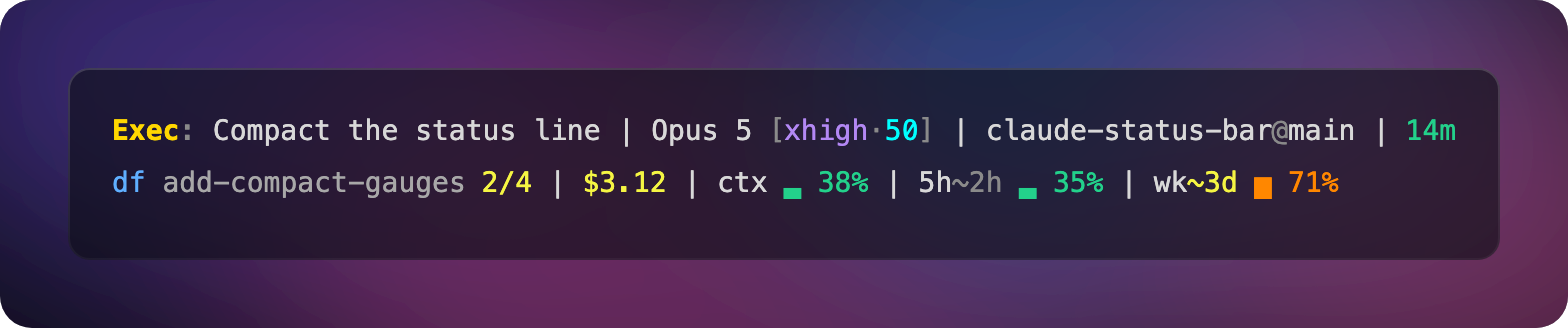
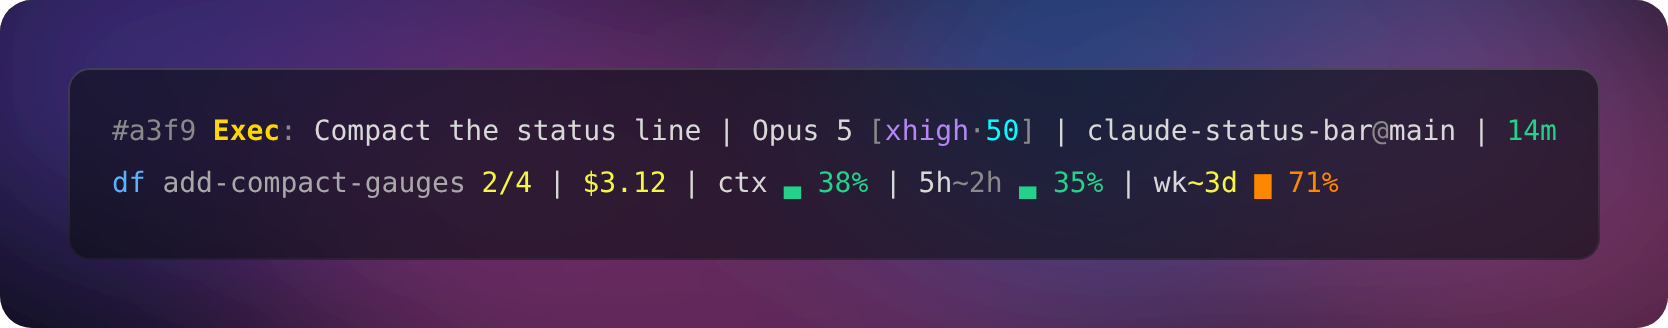
feat(statusline): tag each session with its id prefix (#a3f9)
Line 1 now opens with the session id's first four hex digits in dim grey,
glued before the phase (or the model, before any phase is written). The tag
is the id's own prefix, so it needs no store: transcripts are already named
<session_id>.jsonl. Non-UUID ids show nothing.

bin/ccs-find.js resolves a tag back to the full id. Four hex digits collide
within weeks, so the most recently active transcript wins and the others are
counted ("+N older"); a longer prefix narrows it. Input is restricted to hex
and dashes before it touches the disk.

Bumps to 1.13.0 and regenerates the screenshot with a UUID-shaped session.

Claude-Session: https://claude.ai/code/session_01MJjNNfoWMWKU13gSNfxZYc

Changed region(s): [[0.0625, 0.5183, 0.875, 0.6098], [0.0312, 0.2134, 0.9688, 0.4573]]

diff --git a/bin/ccs-find.test.js b/bin/ccs-find.test.js
@@ -1,0 +1,75 @@
+#!/usr/bin/env node
+'use strict';
+process.removeAllListeners('warning');
+
+const assert = require('assert');
+const fs = require('fs');
+const os = require('os');
+const path = require('path');
+const { spawnSync } = require('child_process');
+
+const BIN = path.join(__dirname, 'ccs-find.js');
+const home = fs.mkdtempSync(path.join(os.tmpdir(), 'ccs-find-test-'));
+const projects = path.join(home, '.claude', 'projects');
+const ctx = path.join(home, '.claude', 'session-context');
+
+const find = (...args) => {
+  const env = { ...process.env, HOME: home };
+  delete env.CLAUDE_CONFIG_DIR;
+  const r = spawnSync(process.execPath, [BIN, ...args], { encoding: 'utf8', env });
+  return { code: r.status, out: r.stdout.trim(), err: r.stderr.trim() };
+};
+// a transcript whose last record says where it ran, last touched `minutesAgo`
+const session = (project, id, cwd, minutesAgo) => {
+  const dir = path.join(projects, project);
+  fs.mkdirSync(dir, { recursive: true });
+  const f = path.join(dir, `${id}.jsonl`);
+  fs.writeFileSync(f, `{"type":"user","cwd":"/old/place"}\n{"type":"assistant","cwd":${JSON.stringify(cwd)}}\n`);
+  const t = new Date(Date.now() - minutesAgo * 60000);
+  fs.utimesSync(f, t, t);
+};
+
+try {
+  const OLD = 'a3f90000-0000-4000-8000-000000000001';
+  const NEW = 'a3f9ffff-0000-4000-8000-000000000002';
+  const OTHER = 'b7e10000-0000-4000-8000-000000000003';
+  session('-work-alpha', OLD, '/work/alpha', 60 * 24 * 20);
+  session('-work-beta', NEW, '/work/beta', 5);
+  session('-work-beta', OTHER, '/work/beta', 1);
+  fs.mkdirSync(ctx, { recursive: true });
+  fs.writeFileSync(path.join(ctx, NEW), 'Exec: tag the session\x1b[31m\n');
+
+  // two share the prefix: the most recently active wins, the other is counted, not hidden
+  let r = find('a3f9');
+  assert.equal(r.code, 0, r.err);
+  assert.equal(r.out, NEW, 'most recent match did not win');
+  assert.ok(r.err.includes('beta') && !r.err.includes('place'), `project is not the last cwd: ${r.err}`);
+  assert.ok(r.err.includes('Exec: tag the session') && !r.err.includes('\x1b'), `phase missing or unsanitised: ${JSON.stringify(r.err)}`);
+  assert.ok(r.err.includes('(+1 older)'), `older match not reported: ${r.err}`);
+
+  // the tag as the bar prints it, upper case, and a longer prefix that tells them apart
+  assert.equal(find('#A3F9').out, NEW, '"#" or upper case not accepted');
+  assert.equal(find('a3f90000').out, OLD, 'a longer prefix did not narrow the match');
+  assert.ok(!find('a3f90000').err.includes('older'), 'a unique match claimed older ones');
+
+  // the latest activity decides, not creation: resuming the old one makes it the answer
+  const oldFile = path.join(projects, '-work-alpha', `${OLD}.jsonl`);
+  fs.utimesSync(oldFile, new Date(), new Date());
+  assert.equal(find('a3f9').out, OLD, 'a resumed session did not take the tag back');
+
+  // nothing found, and anything that is not a hex prefix, is refused without touching the disk
+  assert.equal(find('c0de').code, 1, 'a miss did not exit 1');
+  for (const bad of ['', 'a3f', '../x', 'a3f9*', 'zzzz', 'a3f9/../../etc']) {
+    const b = find(bad);
+    assert.equal(b.code, 2, `accepted ${JSON.stringify(bad)}`);
+    assert.equal(b.out, '', `printed an id for ${JSON.stringify(bad)}`);
+  }
+
+  // no projects directory at all is a miss, not a crash
+  fs.rmSync(projects, { recursive: true });
+  assert.equal(find('a3f9').code, 1, 'missing projects dir was not a clean miss');
+
+  console.log('ok — ccs-find');
+} finally {
+  fs.rmSync(home, { recursive: true, force: true });
+}

diff --git a/bin/ccs-find.js b/bin/ccs-find.js
@@ -1,0 +1,79 @@
+#!/usr/bin/env node
+// ccs-find — resolve the "#a3f9" the status line shows back to its full session id.
+//
+//   node bin/ccs-find.js a3f9          -> prints the session id on stdout, details on stderr
+//   claude --resume "$(node bin/ccs-find.js a3f9)"
+//
+// The tag is the session id's own prefix and transcripts are named <session_id>.jsonl, so the
+// file names are the whole index: nothing is stored, nothing can go stale. Four hex digits do
+// collide over weeks of sessions, so the match with the most recent activity (transcript mtime)
+// wins — the tag you just read on a bar is almost always that one — and the rest are counted.
+
+process.removeAllListeners('warning');
+const fs = require('fs');
+const os = require('os');
+const path = require('path');
+
+const arg = (process.argv[2] || '').replace(/^#/, '').toLowerCase();
+// Hex and dashes only: the prefix is spliced into a file-name match, never a glob or a path.
+if (!/^[0-9a-f][0-9a-f-]{3,35}$/.test(arg)) {
+  process.stderr.write('usage: ccs-find <hex prefix of a session id, at least 4 chars, e.g. a3f9>\n');
+  process.exit(2);
+}
+
+// Transcripts follow the config dir; the phase store is always ~/.claude (see README).
+const roots = [...new Set([
+  process.env.CLAUDE_CONFIG_DIR,
+  path.join(os.homedir(), '.claude'),
+].filter(Boolean).map(r => path.join(r, 'projects')))];
+
+const hits = [];
+for (const root of roots) {
+  let projects = [];
+  try { projects = fs.readdirSync(root, { withFileTypes: true }).filter(e => e.isDirectory()); } catch { continue; }
+  for (const p of projects) {
+    let files = [];
+    try { files = fs.readdirSync(path.join(root, p.name)); } catch { continue; }
+    for (const f of files) {
+      if (!f.startsWith(arg) || !f.endsWith('.jsonl')) continue;
+      const file = path.join(root, p.name, f);
+      try {
+        const st = fs.statSync(file);
+        if (st.isFile()) hits.push({ id: f.slice(0, -6), file, t: st.mtimeMs });
+      } catch {}
+    }
+  }
+}
+
+if (!hits.length) {
+  process.stderr.write(`no session starts with ${arg}\n`);
+  process.exit(1);
+}
+hits.sort((a, b) => b.t - a.t);
+const best = hits[0];
+
+// The project is the transcript's last recorded cwd: the directory name encodes it lossily.
+let project = '';
+try {
+  const fd = fs.openSync(best.file, 'r');
+  const size = fs.fstatSync(fd).size, n = Math.min(size, 65536);
+  const buf = Buffer.alloc(n);
+  fs.readSync(fd, buf, 0, n, size - n);
+  fs.closeSync(fd);
+  const all = [...buf.toString('utf8').matchAll(/"cwd":"((?:[^"\\]|\\.)*)"/g)];
+  if (all.length) project = path.basename(JSON.parse(`"${all[all.length - 1][1]}"`));
+} catch {}
+
+let phase = '';
+try {
+  phase = fs.readFileSync(path.join(os.homedir(), '.claude', 'session-context', best.id), 'utf8')
+    .split('\n')[0].replace(/[\x00-\x1f\x7f]/g, '').trim().slice(0, 80);
+} catch {}
+
+const ago = (ms) => {
+  const m = Math.max(0, Math.round((Date.now() - ms) / 60000));
+  return m < 60 ? `${m}m ago` : m < 1440 ? `${Math.round(m / 60)}h ago` : `${Math.round(m / 1440)}d ago`;
+};
+const more = hits.length > 1 ? `  (+${hits.length - 1} older)` : '';
+process.stderr.write([project, phase, ago(best.t)].filter(Boolean).join('  ·  ') + more + '\n');
+process.stdout.write(best.id + '\n');

diff --git a/bin/claude-code-status.test.js b/bin/claude-code-status.test.js
@@ -525,6 +525,22 @@ async function main() {
   const staleL2 = (await render(cachePayload)).replace(/\x1b\[[0-9;]*m/g, '').split('\n')[1];
   assert.ok(staleL2.includes('30.8k'), `unversioned sidecar was trusted instead of recounted: ${JSON.stringify(staleL2)}`);
 
+  // session tag: a UUID's first four hex digits, dim, glued before the phase — and before the model
+  // when there is no phase yet. A non-UUID id has no prefix to resolve, so nothing is shown.
+  const UUID = 'A3F91C07-5e2b-4d8a-9f10-' + String(Date.now()).slice(-12).padStart(12, '0');
+  const uuidFile = path.join(home, '.claude', 'session-context', UUID);
+  fs.writeFileSync(uuidFile, 'Exec: tag the session\n');
+  const uuidRender = await render({ ...JSON.parse(STDIN_JSON), session_id: UUID });
+  const uuidL1 = uuidRender.replace(/\x1b\[[0-9;]*m/g, '').split('\n')[0];
+  assert.ok(uuidL1.startsWith('#a3f9 Exec: tag the session |'), `session tag not before the phase: ${JSON.stringify(uuidL1)}`);
+  assert.ok(uuidRender.startsWith('\x1b[38;5;245m#a3f9\x1b[0m '), `session tag not dim: ${JSON.stringify(uuidRender)}`);
+  fs.rmSync(uuidFile);
+  const bareL1 = (await render({ ...JSON.parse(STDIN_JSON), session_id: UUID })).replace(/\x1b\[[0-9;]*m/g, '').split('\n')[0];
+  assert.ok(bareL1.startsWith('#a3f9 M '), `session tag not before the model without a phase: ${JSON.stringify(bareL1)}`);
+  const plainL1 = (await render()).replace(/\x1b\[[0-9;]*m/g, '').split('\n')[0];
+  assert.ok(!plainL1.startsWith('#'), `non-UUID session id grew a tag: ${JSON.stringify(plainL1)}`);
+  for (const k of ['phase', 'tps']) fs.rmSync(path.join(os.tmpdir(), `ccs-${k}-${UUID}.json`), { force: true });
+
   console.log('ALL TESTS PASSED');
 }
 

diff --git a/bin/claude-code-status.js b/bin/claude-code-status.js
@@ -570,6 +570,12 @@ process.stdin.on('end', () => {
     }
     // The phase is the headline feature, so it leads instead of trailing five ambient segments.
     if (sessionCtx) L1.unshift(sessionCtx);
+    // "#a3f9" — the session id's own first four hex digits, so it needs no store to resolve:
+    // transcripts are named <session_id>.jsonl and bin/ccs-find.js picks the most recent match.
+    // Glued to the first segment rather than a section of its own; an id that is not a UUID
+    // has no honest prefix to show, so it shows nothing.
+    const sid = /^[0-9a-f]{4}/i.exec(session)?.[0];
+    if (sid) L1[0] = `\x1b[38;5;245m#${sid.toLowerCase()}\x1b[0m ${L1[0]}`;
 
     // ---- Line 2 (stats joined by |) ----
     const L2 = [];

diff --git a/bin/make-screenshot.js b/bin/make-screenshot.js
@@ -20,7 +20,7 @@ const out = path.join(ROOT, 'assets', 'statusline.svg');
 const PAYLOAD = {
   model: { id: 'claude-opus-5', display_name: 'Opus 5 (1M context)' },
   effort: 'xhigh',
-  session_id: 'screenshot',
+  session_id: 'a3f91c07-5e2b-4d8a-9f10-3c8e2d6b7a41',   // a real UUID shape, so the #a3f9 tag shows
   workspace: { current_dir: null },   // filled in with a throwaway demo project below
   context_window: { remaining_percentage: 62 },
   cost: { total_cost_usd: 3.12, total_duration_ms: 840000, total_api_duration_ms: 120000 },

diff --git a/README.md b/README.md
@@ -90,6 +90,7 @@ Verify it renders, then tell me to restart.
 | `hooks/session-context-nudge.js` | `UserPromptSubmit` hook. Silent while the phase file is fresh (<10 min); injects a short reminder when it's stale or missing. On the missing branch — the first turn of a session — it also deletes phase files older than 30 days. |
 | `hooks/session-context-guard.js` | `Stop` hook. Blocks turn completion (max once per turn) if the phase file was never written, still holds the example template, or has not changed in 30 minutes — the deterministic enforcement layer. The block offers `touch` for a line that is still right, so keeping an honest label is cheaper than inventing one. |
 | `bin/intelligence.js` · `data/intelligence.json` · `bin/refresh-intelligence.js` | Per-effort score lookup shared by both renderers, its committed snapshot, and the maintainer script that regenerates it. |
+| `bin/ccs-find.js` | Resolves a session tag (`a3f9`) back to its full session id — the most recently active match — and prints project, phase and how many older sessions share the tag. |
 | `bin/subagent-status.js` | Agent panel renderer (`subagentStatusLine` command, not a hook). Rewrites each subagent row: `[name]  phase-or-description … Model [effort·score] · elapsed · ↓ tokens`. Phase comes from `~/.claude/session-context/<session_id>.<agent_id>.phase`, effort from `….agent.json`; without them the row shows Claude's description and no effort — never the session's. |
 | `hooks/subagent-effort.js` | `PreToolUse` (no matcher) + `SubagentStart` hook. Inside a subagent, `PreToolUse` records the effort Claude actually applied (after its silent per-model downgrade) to `….agent.json`; `SubagentStart` returns `additionalContext` telling the subagent the exact `….phase` path to write — it has no agent id of its own in the environment. Silent, never blocks. |
 | `docs/global-claude-rule.md` | The global CLAUDE.md rule that teaches the model the format and when to write. |
@@ -162,6 +163,24 @@ acknowledgement and this segment would never reach its 20-minute floor. The rend
 earlier of the two under `$TMPDIR`, so a touch confirms the phase without erasing how long it has
 run.
 
+### Session tag
+
+Line 1 opens with `#a3f9`: the first four hex digits of the session id, in dim grey. It is the
+id's own prefix, so nothing is stored to resolve it — transcripts are already named
+`<session_id>.jsonl`:
+
+```bash
+node bin/ccs-find.js a3f9            # full id on stdout; project · phase · age on stderr
+claude --resume "$(node bin/ccs-find.js a3f9)"
+```
+
+Four hex digits collide within a few weeks, so the match with the **most recent activity** wins —
+the tag you just read on a bar is almost always that one — and `(+N older)` says when there were
+others; a longer prefix (`a3f91c`) picks one out. Activity, not creation: resuming an old session
+makes it the answer again. `/clear` starts a new session, so it gets a new tag. From another
+session, "look at what we did in #a3f9" is enough: the same lookup is
+`ls -t ~/.claude/projects/*/a3f9*.jsonl | head -1`, which needs no path to this plugin.
+
 ### Terminal tab title
 
 Opt in with `CLAUDE_CODE_DISABLE_TERMINAL_TITLE=1` in your shell profile (Claude Code otherwise
@@ -175,13 +194,13 @@ the text changes, to the TTY of the `claude` process. Off on Windows, silent on 
 ## What the two lines show
 
 ```
-Exec 40m: Compact the status bar | Fable 5 [xhigh·66] | claude-status-bar@master | 55m
+#a3f9 Exec 40m: Compact the status bar | Fable 5 [xhigh·66] | claude-status-bar@master | 55m
 chg add-compact-gauges 2/4 | $3.12 | 517k↓34k | ctx ▁ 8% | 5h~2h ▃ 35% | wk~3d ▆ 71%
 ```
 
 | Line | Shows |
 |------|-------|
-| 1 | **phase: subject** first, since it is the thing you actually read, with time-in-phase once the label is 20 min old; then model with `[effort·intelligence]`, `project@branch` (`↑↓` vs upstream), elapsed minutes |
+| 1 | the dim **session tag** `#a3f9`, then **phase: subject**, since it is the thing you actually read, with time-in-phase once the label is 20 min old; then model with `[effort·intelligence]`, `project@branch` (`↑↓` vs upstream), elapsed minutes |
 | 2 | the OpenSpec change being worked and its task progress, session cost, tokens this session spent (`↓` = tokens RTK saved), context window used (the same number `/context` reports), 5-hour and weekly rate limits, output tokens per second |
 
 Each meter is one glyph off the `▁▂▃▄▅▆▇█` ramp plus its number, colored together —
